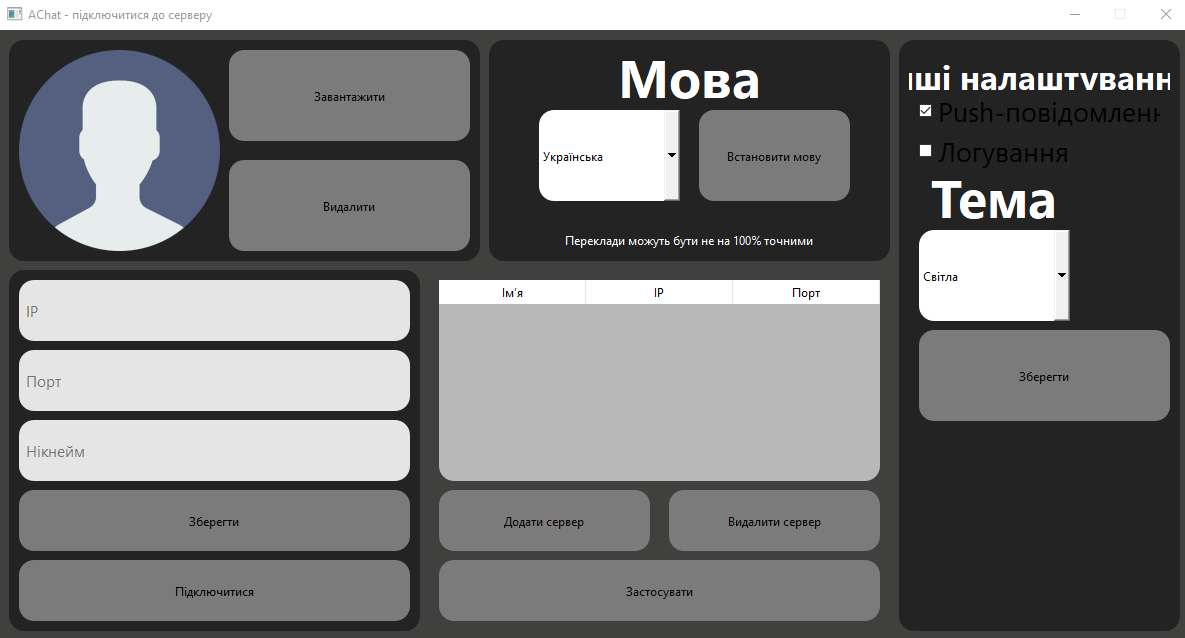
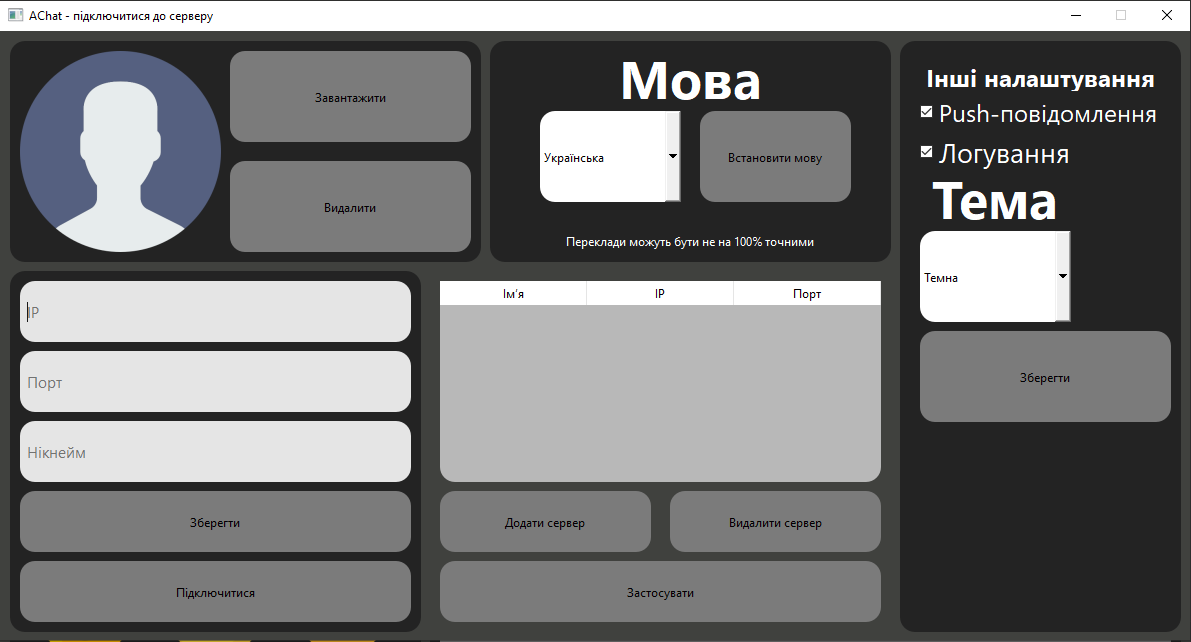
Оптимізація інтерфейсу

diff --git a/client/design/connect_to_server.py b/client/design/connect_to_server.py
@@ -246,7 +246,7 @@ QPushButton:hover {
         self.other_settings_label = QtWidgets.QLabel(parent=self.frame_5)
         self.other_settings_label.setGeometry(QtCore.QRect(10, 10, 261, 51))
         font = QtGui.QFont()
-        font.setPointSize(25)
+        font.setPointSize(18)
         font.setBold(True)
         self.other_settings_label.setFont(font)
         self.other_settings_label.setStyleSheet(self.theme.text_style)
@@ -255,10 +255,9 @@ QPushButton:hover {
         self.push_messages = QtWidgets.QCheckBox(parent=self.frame_5)
         self.push_messages.setGeometry(QtCore.QRect(20, 50, 241, 41))
         font = QtGui.QFont()
-        font.setPointSize(20)
+        font.setPointSize(18)
         self.push_messages.setStyleSheet(self.theme.text_style)
         self.push_messages.setFont(font)
-        self.push_messages.setStyleSheet("")
         self.push_messages.setChecked(False)
         self.push_messages.setTristate(False)
         self.push_messages.setObjectName("push_messages")
@@ -268,7 +267,6 @@ QPushButton:hover {
         font.setPointSize(20)
         self.logging.setStyleSheet(self.theme.text_style)
         self.logging.setFont(font)
-        self.logging.setStyleSheet("")
         self.logging.setChecked(False)
         self.logging.setTristate(False)
         self.logging.setObjectName("logging")
